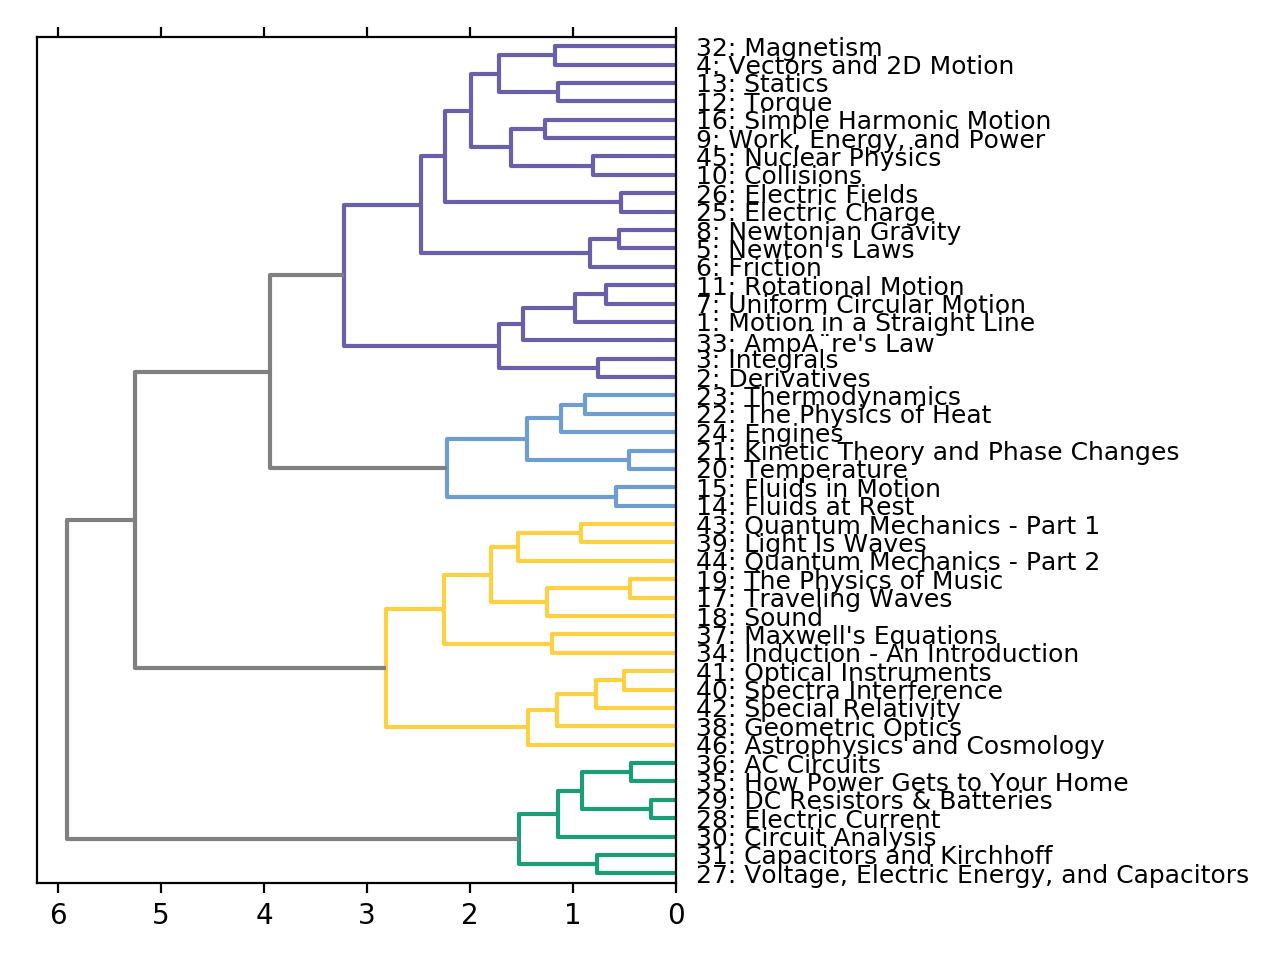
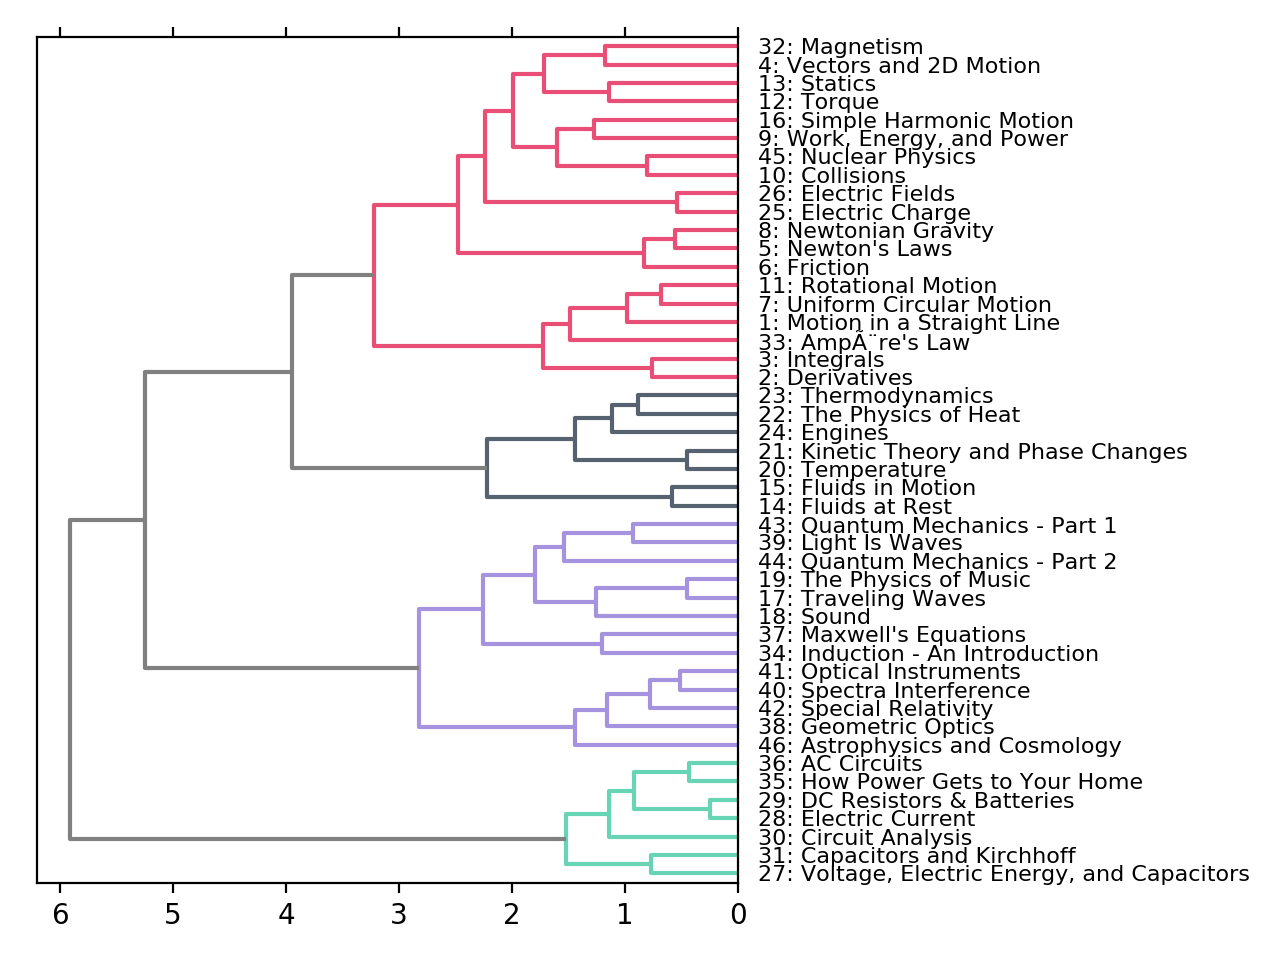
Update _conceptExtraction_.py and add CEfromClusters.py

diff --git a/CEfromClusters.py b/CEfromClusters.py
@@ -1,0 +1,117 @@
+from ConceptExtraction import _conceptExtraction_ as CE
+import Clustering as Clu
+
+"""NOTE 2017-08-21 01:15  :-)
+Concept Extraction from k개 Clusters
+"""
+
+playlistURL = 'https://www.youtube.com/playlist?list=PL8dPuuaLjXtN0ge7yDk_UA0ldZJdhwkoV'
+
+C = Clu.Clustering(playlistURL)
+Pre = CE.Preprocessor(playlistURL)
+Con = CE.ConceptExtraction(playlistURL)
+
+cos = C.get_cosMatrix()
+Z, labels = C.Hclustering(cos)
+titles = Pre.get_videoID_titles()[1]
+#titles = ['{}: {}'.format(i+1, titles[i]) for i in range(len(titles))]
+
+"""
+#labels
+[4 4 4 4 4 4 4 4 4 4 
+ 4 4 4 3 3 4 2 2 2 3 
+ 3 3 3 3 4 4 1 1 ..]
+
+#titles
+['Motion in a Straight Line', 'Derivatives', 'Integrals', 
+ 'Vectors and 2D Motion', "Newton's Laws", 'Friction', 
+ 'Uniform Circular Motion', 'Newtonian Gravity', 'Work, Energy, and Power',
+ 'Collisions', 'Rotational Motion', 'Torque', 'Statics',..]
+"""
+
+#### Get a dictionary which contains video titles that each cluster has ####
+cluster_videos = {}
+for i in range(len(titles)):
+    if labels[i] not in cluster_videos:
+        cluster_videos[labels[i]] = [(i+1, titles[i])]
+    else:
+        cluster_videos[labels[i]].append((i+1, titles[i]))
+#print(cluster_concepts)
+
+"""
+#cluster_videos 
+{1: [(27, 'Voltage, Electric Energy, and Capacitors'), (28, 'Electric Current'), 
+     (29, 'DC Resistors & Batteries'), (30, 'Circuit Analysis'), ...]
+ 2: [(17, 'Traveling Waves'), (18, 'Sound'), (19, 'The Physics of Music'),..], ...}
+"""
+
+#### Extract "Concepts" from each cluster ####
+num_concepts = 1
+concepts = Con.get_Concepts(num_concepts)
+#len(concepts) = 46 (the num. of video lectures)
+cluster_concepts = {}
+
+for i in range(1, len(cluster_videos)+1): # i= each cluster, 1 ~ 4
+    #Video lectures of (i)th cluster
+    video_list = cluster_videos[i]
+    #video_list = [(27, 'Voltage, Electric Energy, and Capacitors',
+    #               28, 'Electric Current',... ]
+    temp = []
+    for j in range(len(video_list)): #j= each video lecture in cluster(i)
+        conceptList= concepts[video_list[j][0] - 1]
+        temp += conceptList
+    cluster_concepts[i] = set(temp) ###
+print(cluster_concepts)
+
+"""NOTE 클러스터에 속한 각 강의들로부터 (concept 추출 개수(k)에 따라) 컨셉들을 extract, =>set한 결과
+#cluster_concepts 
+
+    **num concept=3**
+1: {'transformer', 'ohm', 'voltage', 'inductance', 'resistor', 'battery', 
+    'electricity', 'capacitance', 'inductor', 'capacitor'}, #10
+
+2: {'probability', 'watt', 'reflection', 'radiation', 'amplitude', 'electromagnet', 
+    'quantum', 'flux', 'speed', 'diffraction', 'wavelength', 'frequency', 'pulse', 
+    'wave', 'light', 'permittivity', 'interference', 'electron', 'universe', 
+    'photon', 'length', 'focus', 'refraction', 'sound'}, #24
+
+3: {'temperature', 'liquid', 'engine', 'density', 'heat', 'convection', 'pressure',
+    'entropy', 'volume', 'fluid', 'thermodynamics'}, #11
+    
+4: {'machine', 'density', 'derivative', 'radiation', 'acceleration', 'amplitude', 
+    'vector', 'circle', 'velocity', 'displacement', 'integral','momentum', 'gravity', 
+    'coulomb', 'work', 'motion', 'pendulum', 'stress', 'force', 'atom', 'electron',
+    'ampere', 'torque', 'energy', 'inertia', 'calculus', 'mass'} #27
+####################################################################################
+    **num concept=2**
+1: {'voltage', 'ohm', 'capacitance', 'transformer', 'resistor', 'capacitor', 'battery', 'inductor'} #8
+, 
+2: {'light', 'focus', 'wavelength', 'sound', 'quantum', 'refraction', 'radiation', 'interference', 
+    'universe', 'wave', 'flux', 'pulse', 'speed', 'electromagnet', 'photon', 'electron'}, #16
+    
+3: {'volume', 'pressure', 'density', 'liquid', 'heat', 'engine', 'fluid', 'temperature', 'entropy'},#9 
+
+4: {'integral', 'amplitude', 'velocity', 'radiation', 'mass', 'torque', 'gravity', 'force', 'atom',
+    'energy', 'electron', 'momentum', 'circle', 'motion', 'inertia', 'coulomb', 'acceleration', 
+    'derivative', 'pendulum', 'machine', 'vector', 'stress'}#22
+####################################################################################
+    **num concept=1**
+1: {'resistor', 'voltage', 'capacitor'},  #3
+2: {'refraction', 'light', 'wave', 'flux', 'electron', 'sound', 'universe'}, #7
+3: {'engine', 'entropy', 'pressure', 'temperature', 'heat', 'fluid'}, #6
+4: {'amplitude', 'acceleration', 'energy', 'mass', 'inertia', 'coulomb', 
+    'velocity', 'force', 'circle', 'momentum', 'derivative', 'integral', 'stress', 'vector'} #14
+
+1: 20 -> 8 -> 3
+2: 24 -> 16 -> 7
+3: 11 -> 9 -> 6
+4: 27 -> 22 -> 14
+"""
+#클러스터를 5개로? ## 확인하기.
+
+
+"""
+
+Updating..
+
+"""

diff --git a/Clustering.py b/Clustering.py
@@ -8,29 +8,29 @@ import matplotlib.pyplot as plt
 
 
 class Clustering():
-    def __init__(self):
-        self.playlistURL = 'https://www.youtube.com/playlist?list=PL8dPuuaLjXtN0ge7yDk_UA0ldZJdhwkoV'
-        self.Pre = CE.Preprocessor(self.playlistURL)      #module1
+    def __init__(self, playlistURL):
+        self.playlist_url = playlistURL
+        self.Pre = CE.Preprocessor(self.playlist_url)      #module1
         self.all_urls = self.Pre.get_all_URLs()
         self.video_titles = self.Pre.get_videoTitle(self.all_urls)
-        self.Con = CE.ConceptExtraction(self.playlistURL) #module2
+
+        self.Con = CE.ConceptExtraction(self.playlist_url) #module2
         self.dict_set = self.Con.create_dictSet()
 
     def get_cosMatrix(self):
-        tfidf_dicSet = self.get_tfidf_result()
+        num_concept = 5
+        tfidf_dicSet = self.get_tfidf_result(num_concept)
         cosine = self.cosine_similarity(tfidf_dicSet)
         return cosine
         ##########################################################################
 
-    def get_tfidf_result(self):
-        ##Importing ConceptExtraction module from CE to get TF-IDF(concept extraction) result
-        num_concept = 5
+    def get_tfidf_result(self, num_concept):
         sorted_dictSet = [sorted(dic.items(), key=operator.itemgetter(1), reverse=True) for dic in self.dict_set]
         BOW_result = [dic[:num_concept] for dic in sorted_dictSet]
-        # BOW_result = [[('acceleration',30), ('velocity',28),..],['pressure',41),.."num_concept" 만큼],..]
+            # BOW_result = [[('acceleration',30), ('velocity',28),..],['pressure',41),.."num_concept" 만큼],..]
         Tfidf_dicSet = self.Con.run_TfIdf()
-        # Tfidf_dictSet = [{'motion':0.0, 'capacitor':0.15, 'mass':0.0},
-        #                  {'motion':0.35, 'capacitor':0.0, 'mass':0.01}..]
+            # Tfidf_dictSet = [{'motion':0.0, 'capacitor':0.15, 'mass':0.0},
+            #                  {'motion':0.35, 'capacitor':0.0, 'mass':0.01}..]
         return Tfidf_dicSet
 
     def cosine_similarity(self,Tfidf_dicSet):
@@ -56,33 +56,36 @@ class Clustering():
 
     def Hclustering(self, cos):
         dist = 1 - cos
-        #linkage_matrix = hier.linkage(dist, method='single')  #single-linkage
+        #linkage_matrix = hier.linkage(dist, method='single')  #singleprint(Z, labels)-linkage
         linkage_matrix = ward(dist)
         num_cluster = 4
         cluster_id = fcluster(linkage_matrix, num_cluster, criterion='maxclust')
         #print(cluster_id)
+        return linkage_matrix, cluster_id
 
+    def plot_clusters(self, Z, labels):
         ### Plotting ###
-        title_name = self.video_titles
-        titles = ['{}: {}'.format(i+1, title_name[i]) for i in range(len(title_name))]
+        video_titles = self.video_titles
+        titles = ['{}: {}'.format(i+1, video_titles[i]) for i in range(len(video_titles))]
 
         dflt_col = "#808080"
-        assign_col = {1: "#1b9e77", 2: "#FFD041", 3: "#6E9ECF", 4: "#6A60A9"}
+        assign_col = {1: "#67D5B5", 2: "#A593E0", 3: "#566270", 4: "#e94e77"}
+        #assign_col = {1: "#1b9e77", 2: "#263149", 3: "#E7475E", 4: "#1F6ED4"}
         D_leaf_colors = {}
 
         for i in range(len(titles)):
-            D_leaf_colors[titles[i]] = assign_col[cluster_id[i]]
+            D_leaf_colors[titles[i]] = assign_col[labels[i]]
 
         link_cols = {}
-        for i, i12 in enumerate(linkage_matrix[:, :2].astype(int)):
-            c1, c2 = (link_cols[x] if x > len(linkage_matrix) else D_leaf_colors["{}: ".format(x+1)+title_name[x]] for x in i12)
-            link_cols[i + 1 + len(linkage_matrix)] = c1 if c1 == c2 else dflt_col
+        for i, i12 in enumerate(Z[:, :2].astype(int)):
+            c1, c2 = (link_cols[x] if x > len(Z) else D_leaf_colors["{}: ".format(x+1)+title_name[x]] for x in i12)
+            link_cols[i + 1 + len(Z)] = c1 if c1 == c2 else dflt_col
 
-        ax = dendrogram(Z=linkage_matrix,
+        ax = dendrogram(Z=Z,
                         orientation="left",
                         labels=titles,
                         link_color_func=lambda x: link_cols[x],
-                        leaf_font_size=9.,
+                        leaf_font_size=8.,
                         show_leaf_counts=4)
 
         plt.tick_params(
@@ -98,6 +101,8 @@ class Clustering():
 
 
 if __name__ == "__main__":
-    c = Clustering()
-    cos = c.get_cosMatrix()
-    c.Hclustering(cos)
+    playlistURL = 'https://www.youtube.com/playlist?list=PL8dPuuaLjXtN0ge7yDk_UA0ldZJdhwkoV'
+    C = Clustering(playlistURL)
+    cos = C.get_cosMatrix()
+    Z, labels = C.Hclustering(cos)
+    C.plot_clusters(Z, labels)

diff --git a/ConceptExtraction/_conceptExtraction_.py b/ConceptExtraction/_conceptExtraction_.py
@@ -35,12 +35,18 @@ class Preprocessor:
         self.physicsConcepts = list(self.physicsDict.keys())
 
     def get_result(self):
-        playlist_url = self.playlist_url
-        URLs = self.get_all_URLs()
-        video_IDs = self.get_videoIDs(URLs)
+        video_IDs, titles = self.get_videoID_titles()
         doc_set = self.get_documents(video_IDs)
         bow_set = self.tokenize(doc_set, self.physicsConcepts)
         return bow_set
+
+    """NOTE 2017-08-20 변경/추가"""
+    def get_videoID_titles(self):
+        playlist_url = self.playlist_url
+        URLs = self.get_all_URLs()
+        video_IDs = self.get_videoIDs(URLs)
+        video_titles = self.get_videoTitle(URLs)
+        return video_IDs, video_titles
     ###########################################################
 
     def get_all_URLs(self):
